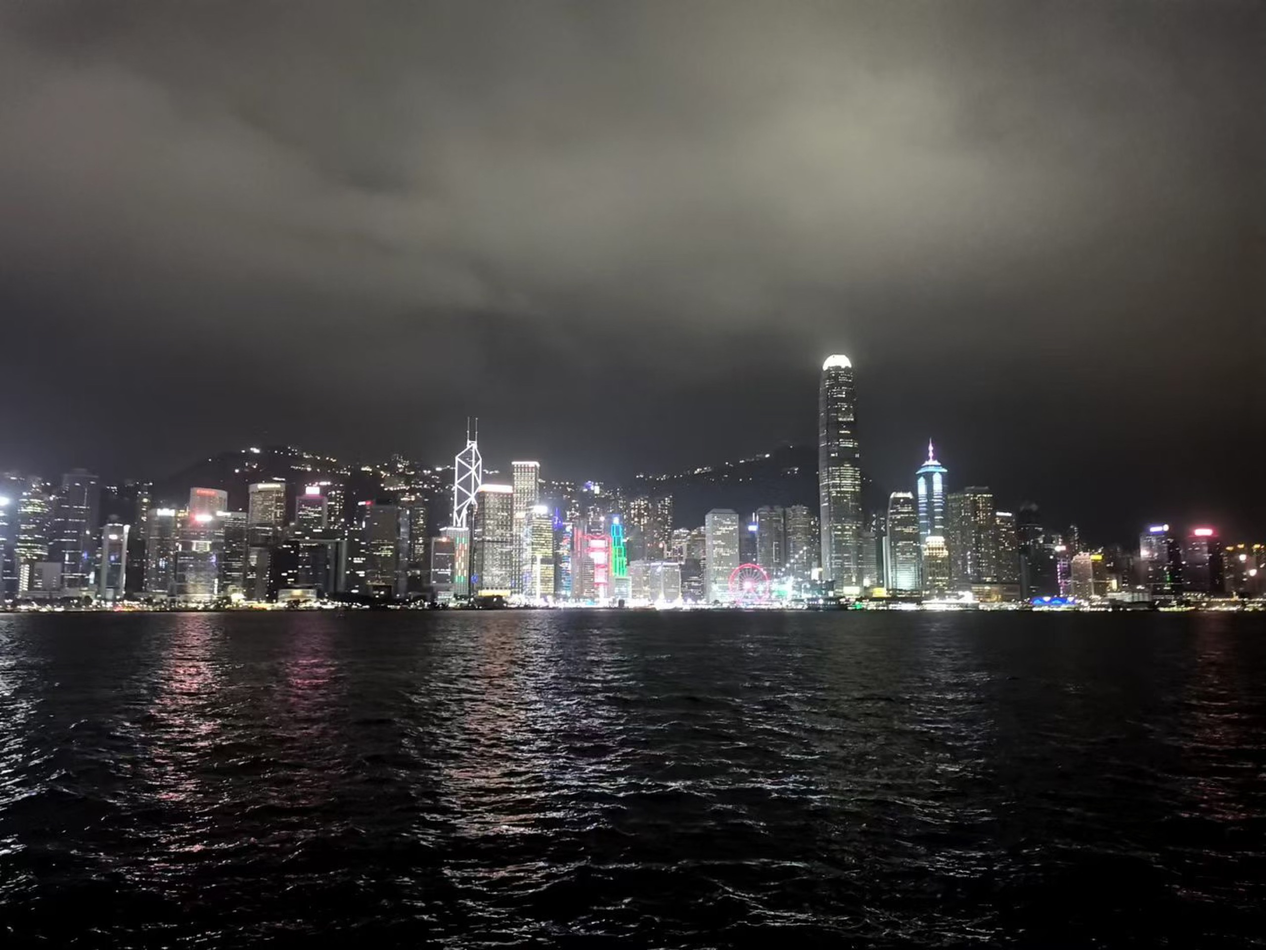
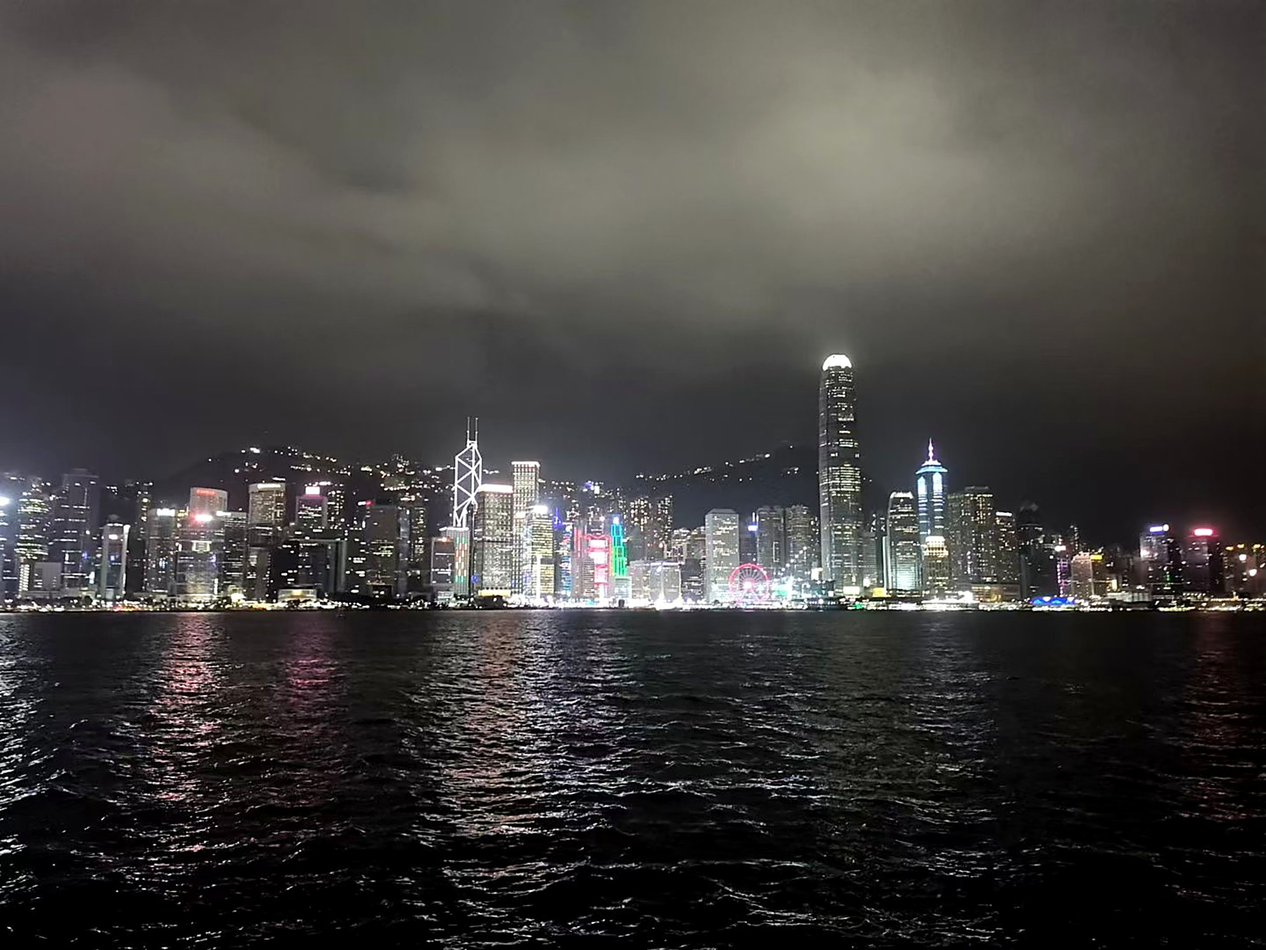
Use higher-res Harbour hero image
Replaced `harbour-night.jpg` with a higher-resolution version and updated the hero image dimensions from `1440x1080` to `2560x1920` in `website/views.mjs`. Regenerated localized homepage outputs in `material-demo/dist/site` so the rendered HTML matches the new asset metadata.

diff --git a/material-demo/dist/site/tw/index.html b/material-demo/dist/site/tw/index.html
@@ -1,3 +1,3 @@
-<!doctype html><html lang="zh-Hant"><head><meta charset="utf-8"><meta name="viewport" content="width=device-width,initial-scale=1"><meta name="description" content="Tin-Yeh Huang 的個人網站：學習、研究、工程實踐與公共服務。 "><meta name="theme-color" content="#f5f5f7"><title>Tin-Yeh Huang</title><link rel="stylesheet" href="../assets/leaflet/leaflet.css?v=f3ec4ee160"><link rel="preload" href="../assets/wenkai-essay.woff2" as="font" type="font/woff2" crossorigin><link rel="stylesheet" href="../site.css?v=f3ec4ee160"><script defer src="../assets/leaflet/leaflet.js"></script><script type="module" src="site.mjs?v=f3ec4ee160"></script></head><body data-page="home" data-lang="tw"><script>try{const theme=localStorage.getItem('tyh-theme')||(matchMedia('(prefers-color-scheme:dark)').matches?'dark':'light');document.body.dataset.theme=theme;document.body.dataset.largeText=localStorage.getItem('tyh-large-text')||'false';document.querySelector('meta[name="theme-color"]').content=theme==='dark'?'#10151c':'#f5f5f7'}catch{document.body.dataset.theme='light'}</script><a href="#main" class="skip-link">跳到內容</a><header class="site-header"><a href="index.html" class="brand">TYH<span>Tin-Yeh Huang</span></a><nav class="desktop-nav" aria-label="主導航"><a href="index.html" aria-current="page">首頁</a><a href="collection.html" >工作</a><a href="notes.html" >文字</a><a href="news.html" >動態</a><a href="about.html" >關於我</a><button class="contact-trigger" popovertarget="contact-panel">聯繫<span data-icon="plus" aria-hidden="true"></span></button></nav><div class="header-actions"><button data-text-size aria-label="調整文字大小" aria-pressed="false">Aa</button><button data-theme-toggle aria-label="切換明暗主題"><span data-icon="sun" aria-hidden="true"></span></button><a href="../index.html" class="language-link">簡</a><a href="../en/index.html" class="language-link">EN</a><button data-menu-toggle aria-expanded="false" aria-controls="site-menu" aria-label="打開目錄"><span data-icon="menu" aria-hidden="true"></span></button></div></header><dialog class="site-menu" id="site-menu"><header><span>Tin-Yeh Huang</span><button data-menu-close aria-label="關閉目錄"><span data-icon="x" aria-hidden="true"></span></button></header><nav><a href="index.html" class="active"><small>01</small>首頁<span data-icon="chevron-right" aria-hidden="true"></span></a><a href="collection.html" class=""><small>02</small>工作<span data-icon="chevron-right" aria-hidden="true"></span></a><a href="notes.html" class=""><small>03</small>文字<span data-icon="chevron-right" aria-hidden="true"></span></a><a href="news.html" class=""><small>04</small>動態<span data-icon="chevron-right" aria-hidden="true"></span></a><a href="about.html" class=""><small>05</small>關於我<span data-icon="chevron-right" aria-hidden="true"></span></a><button class="contact-trigger" popovertarget="contact-panel">聯繫<span data-icon="plus" aria-hidden="true"></span></button></nav></dialog><aside id="contact-panel" class="contact-panel" popover aria-label="聯繫名片"><div class="biz-card"><header class="biz-head"><div class="biz-id"><span class="biz-cn">黃天野</span><span class="biz-en">TIN-YEH “HEAVEN” HUANG</span></div><button class="biz-close" popovertarget="contact-panel" popovertargetaction="hide" aria-label="關閉"><span data-icon="x" aria-hidden="true"></span></button></header><p class="biz-role">產品工程在讀 · 香港理工大學</p><button class="biz-mail" data-copy-email aria-label="複製郵箱"><span class="contact-logo contact-logo-mail" aria-hidden="true"><svg viewBox="0 0 24 24" fill="none" stroke="currentColor" stroke-width="1.6"><rect x="3" y="5" width="18" height="14" rx="3"/><path d="m4 7 8 6 8-6"/></svg></span><span class="biz-mail-text"><small>點擊複製郵箱</small><strong>tin-yeh.huang@connect.polyu.hk</strong></span><span data-icon="copy" aria-hidden="true"></span></button></div><div class="biz-actions"><a class="biz-btn" href="mailto:tin-yeh.huang@connect.polyu.hk">寫郵件</a><a class="biz-btn" href="https://www.linkedin.com/in/tin-yeh-huang-59bba3289/" target="_blank" rel="noopener noreferrer">LinkedIn</a><a class="biz-btn" href="https://github.com/Huangty5121" target="_blank" rel="noopener noreferrer">GitHub</a><a class="biz-btn" href="https://scholar.google.com/citations?user=zrVCdOkAAAAJ&hl=en" target="_blank" rel="noopener noreferrer">Scholar</a></div><div class="biz-foot"><a href="../card.html">名片頁 · 鏈接可直接發給別人<span data-icon="arrow-up-right" aria-hidden="true"></span></a><span data-copy-status role="status"></span></div></aside><main id="main" tabindex="-1"><section class="landing"><figure class="hero-photo"><img src="../assets/harbour-night.jpg" width="1440" height="1080" alt="維多利亞港的夜景，香港島天際線在水面留下燈光倒影" fetchpriority="high"><figcaption>維多利亞港 · 我拍的</figcaption></figure><div class="wrap identity"><span class="edge-note" aria-hidden="true">個人網站 / 2026 — 維多利亞港</span><span class="eyebrow">香港 · 產品工程在讀</span><h1 class="hero-name">黃天野</h1><p class="hero-latin">TIN-YEH “HEAVEN” HUANG</p><p>這裏放一些我參與過的工作，<br>也留一點隨手寫的。</p><div class="home-paths"><a href="collection.html" class="text-link">工作成果<span data-icon="arrow-right" aria-hidden="true"></span></a><a href="notes.html" class="text-link">個人文字<span data-icon="arrow-right" aria-hidden="true"></span></a></div><div class="landing-index"><span class="home-time"><span class="home-time-label">香港時間</span><time data-local-time aria-label="香港當地時間">—</time><span class="home-time-zone">UTC+8</span></span></div></div></section>
+<!doctype html><html lang="zh-Hant"><head><meta charset="utf-8"><meta name="viewport" content="width=device-width,initial-scale=1"><meta name="description" content="Tin-Yeh Huang 的個人網站：學習、研究、工程實踐與公共服務。 "><meta name="theme-color" content="#f5f5f7"><title>Tin-Yeh Huang</title><link rel="stylesheet" href="../assets/leaflet/leaflet.css?v=f3ec4ee160"><link rel="preload" href="../assets/wenkai-essay.woff2" as="font" type="font/woff2" crossorigin><link rel="stylesheet" href="../site.css?v=f3ec4ee160"><script defer src="../assets/leaflet/leaflet.js"></script><script type="module" src="site.mjs?v=f3ec4ee160"></script></head><body data-page="home" data-lang="tw"><script>try{const theme=localStorage.getItem('tyh-theme')||(matchMedia('(prefers-color-scheme:dark)').matches?'dark':'light');document.body.dataset.theme=theme;document.body.dataset.largeText=localStorage.getItem('tyh-large-text')||'false';document.querySelector('meta[name="theme-color"]').content=theme==='dark'?'#10151c':'#f5f5f7'}catch{document.body.dataset.theme='light'}</script><a href="#main" class="skip-link">跳到內容</a><header class="site-header"><a href="index.html" class="brand">TYH<span>Tin-Yeh Huang</span></a><nav class="desktop-nav" aria-label="主導航"><a href="index.html" aria-current="page">首頁</a><a href="collection.html" >工作</a><a href="notes.html" >文字</a><a href="news.html" >動態</a><a href="about.html" >關於我</a><button class="contact-trigger" popovertarget="contact-panel">聯繫<span data-icon="plus" aria-hidden="true"></span></button></nav><div class="header-actions"><button data-text-size aria-label="調整文字大小" aria-pressed="false">Aa</button><button data-theme-toggle aria-label="切換明暗主題"><span data-icon="sun" aria-hidden="true"></span></button><a href="../index.html" class="language-link">簡</a><a href="../en/index.html" class="language-link">EN</a><button data-menu-toggle aria-expanded="false" aria-controls="site-menu" aria-label="打開目錄"><span data-icon="menu" aria-hidden="true"></span></button></div></header><dialog class="site-menu" id="site-menu"><header><span>Tin-Yeh Huang</span><button data-menu-close aria-label="關閉目錄"><span data-icon="x" aria-hidden="true"></span></button></header><nav><a href="index.html" class="active"><small>01</small>首頁<span data-icon="chevron-right" aria-hidden="true"></span></a><a href="collection.html" class=""><small>02</small>工作<span data-icon="chevron-right" aria-hidden="true"></span></a><a href="notes.html" class=""><small>03</small>文字<span data-icon="chevron-right" aria-hidden="true"></span></a><a href="news.html" class=""><small>04</small>動態<span data-icon="chevron-right" aria-hidden="true"></span></a><a href="about.html" class=""><small>05</small>關於我<span data-icon="chevron-right" aria-hidden="true"></span></a><button class="contact-trigger" popovertarget="contact-panel">聯繫<span data-icon="plus" aria-hidden="true"></span></button></nav></dialog><aside id="contact-panel" class="contact-panel" popover aria-label="聯繫名片"><div class="biz-card"><header class="biz-head"><div class="biz-id"><span class="biz-cn">黃天野</span><span class="biz-en">TIN-YEH “HEAVEN” HUANG</span></div><button class="biz-close" popovertarget="contact-panel" popovertargetaction="hide" aria-label="關閉"><span data-icon="x" aria-hidden="true"></span></button></header><p class="biz-role">產品工程在讀 · 香港理工大學</p><button class="biz-mail" data-copy-email aria-label="複製郵箱"><span class="contact-logo contact-logo-mail" aria-hidden="true"><svg viewBox="0 0 24 24" fill="none" stroke="currentColor" stroke-width="1.6"><rect x="3" y="5" width="18" height="14" rx="3"/><path d="m4 7 8 6 8-6"/></svg></span><span class="biz-mail-text"><small>點擊複製郵箱</small><strong>tin-yeh.huang@connect.polyu.hk</strong></span><span data-icon="copy" aria-hidden="true"></span></button></div><div class="biz-actions"><a class="biz-btn" href="mailto:tin-yeh.huang@connect.polyu.hk">寫郵件</a><a class="biz-btn" href="https://www.linkedin.com/in/tin-yeh-huang-59bba3289/" target="_blank" rel="noopener noreferrer">LinkedIn</a><a class="biz-btn" href="https://github.com/Huangty5121" target="_blank" rel="noopener noreferrer">GitHub</a><a class="biz-btn" href="https://scholar.google.com/citations?user=zrVCdOkAAAAJ&hl=en" target="_blank" rel="noopener noreferrer">Scholar</a></div><div class="biz-foot"><a href="../card.html">名片頁 · 鏈接可直接發給別人<span data-icon="arrow-up-right" aria-hidden="true"></span></a><span data-copy-status role="status"></span></div></aside><main id="main" tabindex="-1"><section class="landing"><figure class="hero-photo"><img src="../assets/harbour-night.jpg" width="2560" height="1920" alt="維多利亞港的夜景，香港島天際線在水面留下燈光倒影" fetchpriority="high"><figcaption>維多利亞港 · 我拍的</figcaption></figure><div class="wrap identity"><span class="edge-note" aria-hidden="true">個人網站 / 2026 — 維多利亞港</span><span class="eyebrow">香港 · 產品工程在讀</span><h1 class="hero-name">黃天野</h1><p class="hero-latin">TIN-YEH “HEAVEN” HUANG</p><p>這裏放一些我參與過的工作，<br>也留一點隨手寫的。</p><div class="home-paths"><a href="collection.html" class="text-link">工作成果<span data-icon="arrow-right" aria-hidden="true"></span></a><a href="notes.html" class="text-link">個人文字<span data-icon="arrow-right" aria-hidden="true"></span></a></div><div class="landing-index"><span class="home-time"><span class="home-time-label">香港時間</span><time data-local-time aria-label="香港當地時間">—</time><span class="home-time-zone">UTC+8</span></span></div></div></section>
  <section id="selected" class="home-selection wrap"><header><h2 class="eyebrow">01 · 最近的工作</h2><a href="collection.html" class="text-link">查看全部工作<span data-icon="arrow-right" aria-hidden="true"></span></a></header><div class="home-work-list"><a class="home-work-link" href="project-ninetoothed.html"><figure><img src="../assets/covers/ninetoothed.svg?v=transparent2" width="720" height="450" alt="" loading="lazy"></figure><div><span class="eyebrow">實踐 · 2026</span><h3>NineToothed</h3><p>工具移植、教學材料和演示。</p></div><span data-icon="arrow-right" aria-hidden="true"></span></a><a class="home-work-link" href="read-heatwave.html"><figure><img src="../assets/covers/heatwave.svg?v=transparent2" width="720" height="450" alt="" loading="lazy"></figure><div><span class="eyebrow">論文 · 2026</span><h3>熱浪風險研究</h3><p>參與研究設計、分析、數據整理、圖稿和論文寫作。</p></div><span data-icon="arrow-right" aria-hidden="true"></span></a></div></section>
  <section class="home-notes wrap"><div><span class="eyebrow">02 · 工作之外</span><h2>一些個人文字</h2></div><p>關於形式、功能，以及設計為什麼值得。</p><a href="notes.html" class="text-link">進入文字<span data-icon="arrow-right" aria-hidden="true"></span></a><figure class="notes-material" aria-hidden="true"><img src="../assets/folio-scene-cutout.webp" alt="" width="1536" height="1024" loading="lazy"></figure></section></main><footer class="site-footer"><div><span>© 2026 Tin-Yeh Huang</span><button class="contact-trigger" popovertarget="contact-panel">聯繫<span data-icon="plus" aria-hidden="true"></span></button><a class="footer-email" href="mailto:tin-yeh.huang@connect.polyu.hk">郵箱<span data-icon="arrow-up-right" aria-hidden="true"></span></a></div></footer><aside class="music-dock" aria-label="音樂播放器"><button class="music-launcher" popovertarget="music-panel" aria-label="打開音樂播放器"><span class="music-bars" aria-hidden="true"><i></i><i></i><i></i><i></i></span><span data-music-label>聽點音樂</span><span data-icon="plus" aria-hidden="true"></span></button><section id="music-panel" class="music-panel" popover aria-labelledby="music-title"><header><span class="eyebrow">音樂角落</span><button popovertarget="music-panel" popovertargetaction="hide" aria-label="收起播放器"><span data-icon="minus" aria-hidden="true"></span></button></header><div class="music-track"><span class="record-disc" aria-hidden="true"></span><div><h2 id="music-title">塵大師</h2><p>陳奕迅</p><a href="https://music.apple.com/hk/album/塵大師/1675204502?i=1675204703" target="_blank" rel="noopener noreferrer">Apple Music<span data-icon="arrow-up-right" aria-hidden="true"></span></a></div></div><div class="music-transport"><button data-music-toggle aria-pressed="false" aria-label="播放音樂試聽"><span data-icon="play" aria-hidden="true"></span></button><div class="music-timeline"><input type="range" data-music-seek min="0" max="30" value="0" step="0.1" disabled aria-label="播放進度"><div><time data-music-elapsed>0:00</time><span>官方試聽 · <time data-music-duration>0:30</time></span></div></div></div><label class="music-volume"><span>音量</span><input type="range" data-music-volume min="0" max="1" step="0.05" value="0.55" aria-label="音量"></label><p data-audio-status role="status"></p></section></aside><audio id="music" preload="none" src="https://audio-ssl.itunes.apple.com/itunes-assets/AudioPreview126/v4/cf/66/67/cf666757-8fc8-e1c9-ed65-aa087e854952/mzaf_18188607515704561791.plus.aac.p.m4a"></audio></body></html>

diff --git a/material-demo/dist/site/en/index.html b/material-demo/dist/site/en/index.html
@@ -1,3 +1,3 @@
-<!doctype html><html lang="en"><head><meta charset="utf-8"><meta name="viewport" content="width=device-width,initial-scale=1"><meta name="description" content="Tin-Yeh Huang: studies, research, engineering, and public service. "><meta name="theme-color" content="#f5f5f7"><title>Tin-Yeh Huang</title><link rel="stylesheet" href="../assets/leaflet/leaflet.css?v=f3ec4ee160"><link rel="preload" href="../assets/wenkai-essay.woff2" as="font" type="font/woff2" crossorigin><link rel="stylesheet" href="../site.css?v=f3ec4ee160"><script defer src="../assets/leaflet/leaflet.js"></script><script type="module" src="../site.mjs?v=f3ec4ee160"></script></head><body data-page="home" data-lang="en"><script>try{const theme=localStorage.getItem('tyh-theme')||(matchMedia('(prefers-color-scheme:dark)').matches?'dark':'light');document.body.dataset.theme=theme;document.body.dataset.largeText=localStorage.getItem('tyh-large-text')||'false';document.querySelector('meta[name="theme-color"]').content=theme==='dark'?'#10151c':'#f5f5f7'}catch{document.body.dataset.theme='light'}</script><a href="#main" class="skip-link">Skip to content</a><header class="site-header"><a href="index.html" class="brand">TYH<span>Tin-Yeh Huang</span></a><nav class="desktop-nav" aria-label="Main navigation"><a href="index.html" aria-current="page">Home</a><a href="collection.html" >Work</a><a href="notes.html" >Notes</a><a href="news.html" >News</a><a href="about.html" >About</a><button class="contact-trigger" popovertarget="contact-panel">Contact<span data-icon="plus" aria-hidden="true"></span></button></nav><div class="header-actions"><button data-text-size aria-label="Adjust text size" aria-pressed="false">Aa</button><button data-theme-toggle aria-label="Toggle light and dark theme"><span data-icon="sun" aria-hidden="true"></span></button><a href="../index.html" class="language-link">中</a><a href="../tw/index.html" class="language-link">繁</a><button data-menu-toggle aria-expanded="false" aria-controls="site-menu" aria-label="Open menu"><span data-icon="menu" aria-hidden="true"></span></button></div></header><dialog class="site-menu" id="site-menu"><header><span>Tin-Yeh Huang</span><button data-menu-close aria-label="Close menu"><span data-icon="x" aria-hidden="true"></span></button></header><nav><a href="index.html" class="active"><small>01</small>Home<span data-icon="chevron-right" aria-hidden="true"></span></a><a href="collection.html" class=""><small>02</small>Work<span data-icon="chevron-right" aria-hidden="true"></span></a><a href="notes.html" class=""><small>03</small>Notes<span data-icon="chevron-right" aria-hidden="true"></span></a><a href="news.html" class=""><small>04</small>News<span data-icon="chevron-right" aria-hidden="true"></span></a><a href="about.html" class=""><small>05</small>About<span data-icon="chevron-right" aria-hidden="true"></span></a><button class="contact-trigger" popovertarget="contact-panel">Contact<span data-icon="plus" aria-hidden="true"></span></button></nav></dialog><aside id="contact-panel" class="contact-panel" popover aria-label="Contact card"><div class="biz-card"><header class="biz-head"><div class="biz-id"><span class="biz-cn">黄天野</span><span class="biz-en">TIN-YEH “HEAVEN” HUANG</span></div><button class="biz-close" popovertarget="contact-panel" popovertargetaction="hide" aria-label="Close"><span data-icon="x" aria-hidden="true"></span></button></header><p class="biz-role">Product Engineering · The Hong Kong Polytechnic University</p><button class="biz-mail" data-copy-email aria-label="Copy email"><span class="contact-logo contact-logo-mail" aria-hidden="true"><svg viewBox="0 0 24 24" fill="none" stroke="currentColor" stroke-width="1.6"><rect x="3" y="5" width="18" height="14" rx="3"/><path d="m4 7 8 6 8-6"/></svg></span><span class="biz-mail-text"><small>Tap to copy email</small><strong>tin-yeh.huang@connect.polyu.hk</strong></span><span data-icon="copy" aria-hidden="true"></span></button></div><div class="biz-actions"><a class="biz-btn" href="mailto:tin-yeh.huang@connect.polyu.hk">Email</a><a class="biz-btn" href="https://www.linkedin.com/in/tin-yeh-huang-59bba3289/" target="_blank" rel="noopener noreferrer">LinkedIn</a><a class="biz-btn" href="https://github.com/Huangty5121" target="_blank" rel="noopener noreferrer">GitHub</a><a class="biz-btn" href="https://scholar.google.com/citations?user=zrVCdOkAAAAJ&hl=en" target="_blank" rel="noopener noreferrer">Scholar</a></div><div class="biz-foot"><a href="../card.html">Card page · share this link<span data-icon="arrow-up-right" aria-hidden="true"></span></a><span data-copy-status role="status"></span></div></aside><main id="main" tabindex="-1"><section class="landing"><figure class="hero-photo"><img src="../assets/harbour-night.jpg" width="1440" height="1080" alt="Victoria Harbour at night, the Hong Kong Island skyline reflected in the water" fetchpriority="high"><figcaption>Victoria Harbour · my own photo</figcaption></figure><div class="wrap identity"><span class="edge-note" aria-hidden="true">個人網站 / 2026 — Victoria Harbour</span><span class="eyebrow">Hong Kong · Product Engineering student</span><h1 class="hero-name">Tin-Yeh Huang</h1><p class="hero-latin">黄天野 · “HEAVEN”</p><p>Some things I have worked on,<br>and a few notes along the way.</p><div class="home-paths"><a href="collection.html" class="text-link">Work<span data-icon="arrow-right" aria-hidden="true"></span></a><a href="notes.html" class="text-link">Notes<span data-icon="arrow-right" aria-hidden="true"></span></a></div><div class="landing-index"><span class="home-time"><span class="home-time-label">Hong Kong time</span><time data-local-time aria-label="Local time in Hong Kong">—</time><span class="home-time-zone">UTC+8</span></span></div></div></section>
+<!doctype html><html lang="en"><head><meta charset="utf-8"><meta name="viewport" content="width=device-width,initial-scale=1"><meta name="description" content="Tin-Yeh Huang: studies, research, engineering, and public service. "><meta name="theme-color" content="#f5f5f7"><title>Tin-Yeh Huang</title><link rel="stylesheet" href="../assets/leaflet/leaflet.css?v=f3ec4ee160"><link rel="preload" href="../assets/wenkai-essay.woff2" as="font" type="font/woff2" crossorigin><link rel="stylesheet" href="../site.css?v=f3ec4ee160"><script defer src="../assets/leaflet/leaflet.js"></script><script type="module" src="../site.mjs?v=f3ec4ee160"></script></head><body data-page="home" data-lang="en"><script>try{const theme=localStorage.getItem('tyh-theme')||(matchMedia('(prefers-color-scheme:dark)').matches?'dark':'light');document.body.dataset.theme=theme;document.body.dataset.largeText=localStorage.getItem('tyh-large-text')||'false';document.querySelector('meta[name="theme-color"]').content=theme==='dark'?'#10151c':'#f5f5f7'}catch{document.body.dataset.theme='light'}</script><a href="#main" class="skip-link">Skip to content</a><header class="site-header"><a href="index.html" class="brand">TYH<span>Tin-Yeh Huang</span></a><nav class="desktop-nav" aria-label="Main navigation"><a href="index.html" aria-current="page">Home</a><a href="collection.html" >Work</a><a href="notes.html" >Notes</a><a href="news.html" >News</a><a href="about.html" >About</a><button class="contact-trigger" popovertarget="contact-panel">Contact<span data-icon="plus" aria-hidden="true"></span></button></nav><div class="header-actions"><button data-text-size aria-label="Adjust text size" aria-pressed="false">Aa</button><button data-theme-toggle aria-label="Toggle light and dark theme"><span data-icon="sun" aria-hidden="true"></span></button><a href="../index.html" class="language-link">中</a><a href="../tw/index.html" class="language-link">繁</a><button data-menu-toggle aria-expanded="false" aria-controls="site-menu" aria-label="Open menu"><span data-icon="menu" aria-hidden="true"></span></button></div></header><dialog class="site-menu" id="site-menu"><header><span>Tin-Yeh Huang</span><button data-menu-close aria-label="Close menu"><span data-icon="x" aria-hidden="true"></span></button></header><nav><a href="index.html" class="active"><small>01</small>Home<span data-icon="chevron-right" aria-hidden="true"></span></a><a href="collection.html" class=""><small>02</small>Work<span data-icon="chevron-right" aria-hidden="true"></span></a><a href="notes.html" class=""><small>03</small>Notes<span data-icon="chevron-right" aria-hidden="true"></span></a><a href="news.html" class=""><small>04</small>News<span data-icon="chevron-right" aria-hidden="true"></span></a><a href="about.html" class=""><small>05</small>About<span data-icon="chevron-right" aria-hidden="true"></span></a><button class="contact-trigger" popovertarget="contact-panel">Contact<span data-icon="plus" aria-hidden="true"></span></button></nav></dialog><aside id="contact-panel" class="contact-panel" popover aria-label="Contact card"><div class="biz-card"><header class="biz-head"><div class="biz-id"><span class="biz-cn">黄天野</span><span class="biz-en">TIN-YEH “HEAVEN” HUANG</span></div><button class="biz-close" popovertarget="contact-panel" popovertargetaction="hide" aria-label="Close"><span data-icon="x" aria-hidden="true"></span></button></header><p class="biz-role">Product Engineering · The Hong Kong Polytechnic University</p><button class="biz-mail" data-copy-email aria-label="Copy email"><span class="contact-logo contact-logo-mail" aria-hidden="true"><svg viewBox="0 0 24 24" fill="none" stroke="currentColor" stroke-width="1.6"><rect x="3" y="5" width="18" height="14" rx="3"/><path d="m4 7 8 6 8-6"/></svg></span><span class="biz-mail-text"><small>Tap to copy email</small><strong>tin-yeh.huang@connect.polyu.hk</strong></span><span data-icon="copy" aria-hidden="true"></span></button></div><div class="biz-actions"><a class="biz-btn" href="mailto:tin-yeh.huang@connect.polyu.hk">Email</a><a class="biz-btn" href="https://www.linkedin.com/in/tin-yeh-huang-59bba3289/" target="_blank" rel="noopener noreferrer">LinkedIn</a><a class="biz-btn" href="https://github.com/Huangty5121" target="_blank" rel="noopener noreferrer">GitHub</a><a class="biz-btn" href="https://scholar.google.com/citations?user=zrVCdOkAAAAJ&hl=en" target="_blank" rel="noopener noreferrer">Scholar</a></div><div class="biz-foot"><a href="../card.html">Card page · share this link<span data-icon="arrow-up-right" aria-hidden="true"></span></a><span data-copy-status role="status"></span></div></aside><main id="main" tabindex="-1"><section class="landing"><figure class="hero-photo"><img src="../assets/harbour-night.jpg" width="2560" height="1920" alt="Victoria Harbour at night, the Hong Kong Island skyline reflected in the water" fetchpriority="high"><figcaption>Victoria Harbour · my own photo</figcaption></figure><div class="wrap identity"><span class="edge-note" aria-hidden="true">個人網站 / 2026 — Victoria Harbour</span><span class="eyebrow">Hong Kong · Product Engineering student</span><h1 class="hero-name">Tin-Yeh Huang</h1><p class="hero-latin">黄天野 · “HEAVEN”</p><p>Some things I have worked on,<br>and a few notes along the way.</p><div class="home-paths"><a href="collection.html" class="text-link">Work<span data-icon="arrow-right" aria-hidden="true"></span></a><a href="notes.html" class="text-link">Notes<span data-icon="arrow-right" aria-hidden="true"></span></a></div><div class="landing-index"><span class="home-time"><span class="home-time-label">Hong Kong time</span><time data-local-time aria-label="Local time in Hong Kong">—</time><span class="home-time-zone">UTC+8</span></span></div></div></section>
  <section id="selected" class="home-selection wrap"><header><h2 class="eyebrow">01 · Selected work</h2><a href="collection.html" class="text-link">All work<span data-icon="arrow-right" aria-hidden="true"></span></a></header><div class="home-work-list"><a class="home-work-link" href="project-ninetoothed.html"><figure><img src="../assets/covers/ninetoothed.svg?v=transparent2" width="720" height="450" alt="" loading="lazy"></figure><div><span class="eyebrow">Practice · 2026</span><h3>NineToothed</h3><p>Tooling, teaching materials, and demonstrations.</p></div><span data-icon="arrow-right" aria-hidden="true"></span></a><a class="home-work-link" href="read-heatwave.html"><figure><img src="../assets/covers/heatwave.svg?v=transparent2" width="720" height="450" alt="" loading="lazy"></figure><div><span class="eyebrow">Paper · 2026</span><h3>Cascading heatwave risks</h3><p>Contributed to study design, analysis, data, figures, and writing.</p></div><span data-icon="arrow-right" aria-hidden="true"></span></a></div></section>
  <section class="home-notes wrap"><div><span class="eyebrow">02 · Along the way</span><h2>A few personal notes</h2></div><p>On form, function, and what makes a design worthwhile.</p><a href="notes.html" class="text-link">Read the notes<span data-icon="arrow-right" aria-hidden="true"></span></a><figure class="notes-material" aria-hidden="true"><img src="../assets/folio-scene-cutout.webp" alt="" width="1536" height="1024" loading="lazy"></figure></section></main><footer class="site-footer"><div><span>© 2026 Tin-Yeh Huang</span><button class="contact-trigger" popovertarget="contact-panel">Contact<span data-icon="plus" aria-hidden="true"></span></button><a class="footer-email" href="mailto:tin-yeh.huang@connect.polyu.hk">Email<span data-icon="arrow-up-right" aria-hidden="true"></span></a></div></footer><aside class="music-dock" aria-label="Music player"><button class="music-launcher" popovertarget="music-panel" aria-label="Open music player"><span class="music-bars" aria-hidden="true"><i></i><i></i><i></i><i></i></span><span data-music-label>A little music</span><span data-icon="plus" aria-hidden="true"></span></button><section id="music-panel" class="music-panel" popover aria-labelledby="music-title"><header><span class="eyebrow">A little music</span><button popovertarget="music-panel" popovertargetaction="hide" aria-label="Close music player"><span data-icon="minus" aria-hidden="true"></span></button></header><div class="music-track"><span class="record-disc" aria-hidden="true"></span><div><h2 id="music-title">尘大师</h2><p>陈奕迅</p><a href="https://music.apple.com/hk/album/塵大師/1675204502?i=1675204703" target="_blank" rel="noopener noreferrer">Apple Music<span data-icon="arrow-up-right" aria-hidden="true"></span></a></div></div><div class="music-transport"><button data-music-toggle aria-pressed="false" aria-label="Play music preview"><span data-icon="play" aria-hidden="true"></span></button><div class="music-timeline"><input type="range" data-music-seek min="0" max="30" value="0" step="0.1" disabled aria-label="Playback position"><div><time data-music-elapsed>0:00</time><span>Official preview · <time data-music-duration>0:30</time></span></div></div></div><label class="music-volume"><span>Volume</span><input type="range" data-music-volume min="0" max="1" step="0.05" value="0.55" aria-label="Volume"></label><p data-audio-status role="status"></p></section></aside><audio id="music" preload="none" src="https://audio-ssl.itunes.apple.com/itunes-assets/AudioPreview126/v4/cf/66/67/cf666757-8fc8-e1c9-ed65-aa087e854952/mzaf_18188607515704561791.plus.aac.p.m4a"></audio></body></html>

diff --git a/material-demo/dist/site/index.html b/material-demo/dist/site/index.html
@@ -1,3 +1,3 @@
-<!doctype html><html lang="zh-Hans"><head><meta charset="utf-8"><meta name="viewport" content="width=device-width,initial-scale=1"><meta name="description" content="Tin-Yeh Huang 的个人网站：学习、研究、工程实践与公共服务。 "><meta name="theme-color" content="#f5f5f7"><title>Tin-Yeh Huang</title><link rel="stylesheet" href="assets/leaflet/leaflet.css?v=f3ec4ee160"><link rel="preload" href="assets/wenkai-essay.woff2" as="font" type="font/woff2" crossorigin><link rel="stylesheet" href="site.css?v=f3ec4ee160"><script defer src="assets/leaflet/leaflet.js"></script><script type="module" src="site.mjs?v=f3ec4ee160"></script></head><body data-page="home" data-lang="zh"><script>try{const theme=localStorage.getItem('tyh-theme')||(matchMedia('(prefers-color-scheme:dark)').matches?'dark':'light');document.body.dataset.theme=theme;document.body.dataset.largeText=localStorage.getItem('tyh-large-text')||'false';document.querySelector('meta[name="theme-color"]').content=theme==='dark'?'#10151c':'#f5f5f7'}catch{document.body.dataset.theme='light'}</script><a href="#main" class="skip-link">跳到内容</a><header class="site-header"><a href="index.html" class="brand">TYH<span>Tin-Yeh Huang</span></a><nav class="desktop-nav" aria-label="主导航"><a href="index.html" aria-current="page">首页</a><a href="collection.html" >工作</a><a href="notes.html" >文字</a><a href="news.html" >动态</a><a href="about.html" >关于我</a><button class="contact-trigger" popovertarget="contact-panel">联系<span data-icon="plus" aria-hidden="true"></span></button></nav><div class="header-actions"><button data-text-size aria-label="调整文字大小" aria-pressed="false">Aa</button><button data-theme-toggle aria-label="切换明暗主题"><span data-icon="sun" aria-hidden="true"></span></button><a href="tw/index.html" class="language-link">繁</a><a href="en/index.html" class="language-link">EN</a><button data-menu-toggle aria-expanded="false" aria-controls="site-menu" aria-label="打开目录"><span data-icon="menu" aria-hidden="true"></span></button></div></header><dialog class="site-menu" id="site-menu"><header><span>Tin-Yeh Huang</span><button data-menu-close aria-label="关闭目录"><span data-icon="x" aria-hidden="true"></span></button></header><nav><a href="index.html" class="active"><small>01</small>首页<span data-icon="chevron-right" aria-hidden="true"></span></a><a href="collection.html" class=""><small>02</small>工作<span data-icon="chevron-right" aria-hidden="true"></span></a><a href="notes.html" class=""><small>03</small>文字<span data-icon="chevron-right" aria-hidden="true"></span></a><a href="news.html" class=""><small>04</small>动态<span data-icon="chevron-right" aria-hidden="true"></span></a><a href="about.html" class=""><small>05</small>关于我<span data-icon="chevron-right" aria-hidden="true"></span></a><button class="contact-trigger" popovertarget="contact-panel">联系<span data-icon="plus" aria-hidden="true"></span></button></nav></dialog><aside id="contact-panel" class="contact-panel" popover aria-label="联系名片"><div class="biz-card"><header class="biz-head"><div class="biz-id"><span class="biz-cn">黄天野</span><span class="biz-en">TIN-YEH “HEAVEN” HUANG</span></div><button class="biz-close" popovertarget="contact-panel" popovertargetaction="hide" aria-label="关闭"><span data-icon="x" aria-hidden="true"></span></button></header><p class="biz-role">产品工程在读 · 香港理工大学</p><button class="biz-mail" data-copy-email aria-label="复制邮箱"><span class="contact-logo contact-logo-mail" aria-hidden="true"><svg viewBox="0 0 24 24" fill="none" stroke="currentColor" stroke-width="1.6"><rect x="3" y="5" width="18" height="14" rx="3"/><path d="m4 7 8 6 8-6"/></svg></span><span class="biz-mail-text"><small>点击复制邮箱</small><strong>tin-yeh.huang@connect.polyu.hk</strong></span><span data-icon="copy" aria-hidden="true"></span></button></div><div class="biz-actions"><a class="biz-btn" href="mailto:tin-yeh.huang@connect.polyu.hk">写邮件</a><a class="biz-btn" href="https://www.linkedin.com/in/tin-yeh-huang-59bba3289/" target="_blank" rel="noopener noreferrer">LinkedIn</a><a class="biz-btn" href="https://github.com/Huangty5121" target="_blank" rel="noopener noreferrer">GitHub</a><a class="biz-btn" href="https://scholar.google.com/citations?user=zrVCdOkAAAAJ&hl=en" target="_blank" rel="noopener noreferrer">Scholar</a></div><div class="biz-foot"><a href="card.html">名片页 · 链接可直接发给别人<span data-icon="arrow-up-right" aria-hidden="true"></span></a><span data-copy-status role="status"></span></div></aside><main id="main" tabindex="-1"><section class="landing"><figure class="hero-photo"><img src="assets/harbour-night.jpg" width="1440" height="1080" alt="维多利亚港的夜景，香港岛天际线在水面留下灯光倒影" fetchpriority="high"><figcaption>维多利亚港 · 我拍的</figcaption></figure><div class="wrap identity"><span class="edge-note" aria-hidden="true">個人網站 / 2026 — 維多利亞港</span><span class="eyebrow">香港 · 产品工程在读</span><h1 class="hero-name">黄天野</h1><p class="hero-latin">TIN-YEH “HEAVEN” HUANG</p><p>这里放一些我参与过的工作，<br>也留一点随手写的。</p><div class="home-paths"><a href="collection.html" class="text-link">工作成果<span data-icon="arrow-right" aria-hidden="true"></span></a><a href="notes.html" class="text-link">个人文字<span data-icon="arrow-right" aria-hidden="true"></span></a></div><div class="landing-index"><span class="home-time"><span class="home-time-label">香港时间</span><time data-local-time aria-label="香港当地时间">—</time><span class="home-time-zone">UTC+8</span></span></div></div></section>
+<!doctype html><html lang="zh-Hans"><head><meta charset="utf-8"><meta name="viewport" content="width=device-width,initial-scale=1"><meta name="description" content="Tin-Yeh Huang 的个人网站：学习、研究、工程实践与公共服务。 "><meta name="theme-color" content="#f5f5f7"><title>Tin-Yeh Huang</title><link rel="stylesheet" href="assets/leaflet/leaflet.css?v=f3ec4ee160"><link rel="preload" href="assets/wenkai-essay.woff2" as="font" type="font/woff2" crossorigin><link rel="stylesheet" href="site.css?v=f3ec4ee160"><script defer src="assets/leaflet/leaflet.js"></script><script type="module" src="site.mjs?v=f3ec4ee160"></script></head><body data-page="home" data-lang="zh"><script>try{const theme=localStorage.getItem('tyh-theme')||(matchMedia('(prefers-color-scheme:dark)').matches?'dark':'light');document.body.dataset.theme=theme;document.body.dataset.largeText=localStorage.getItem('tyh-large-text')||'false';document.querySelector('meta[name="theme-color"]').content=theme==='dark'?'#10151c':'#f5f5f7'}catch{document.body.dataset.theme='light'}</script><a href="#main" class="skip-link">跳到内容</a><header class="site-header"><a href="index.html" class="brand">TYH<span>Tin-Yeh Huang</span></a><nav class="desktop-nav" aria-label="主导航"><a href="index.html" aria-current="page">首页</a><a href="collection.html" >工作</a><a href="notes.html" >文字</a><a href="news.html" >动态</a><a href="about.html" >关于我</a><button class="contact-trigger" popovertarget="contact-panel">联系<span data-icon="plus" aria-hidden="true"></span></button></nav><div class="header-actions"><button data-text-size aria-label="调整文字大小" aria-pressed="false">Aa</button><button data-theme-toggle aria-label="切换明暗主题"><span data-icon="sun" aria-hidden="true"></span></button><a href="tw/index.html" class="language-link">繁</a><a href="en/index.html" class="language-link">EN</a><button data-menu-toggle aria-expanded="false" aria-controls="site-menu" aria-label="打开目录"><span data-icon="menu" aria-hidden="true"></span></button></div></header><dialog class="site-menu" id="site-menu"><header><span>Tin-Yeh Huang</span><button data-menu-close aria-label="关闭目录"><span data-icon="x" aria-hidden="true"></span></button></header><nav><a href="index.html" class="active"><small>01</small>首页<span data-icon="chevron-right" aria-hidden="true"></span></a><a href="collection.html" class=""><small>02</small>工作<span data-icon="chevron-right" aria-hidden="true"></span></a><a href="notes.html" class=""><small>03</small>文字<span data-icon="chevron-right" aria-hidden="true"></span></a><a href="news.html" class=""><small>04</small>动态<span data-icon="chevron-right" aria-hidden="true"></span></a><a href="about.html" class=""><small>05</small>关于我<span data-icon="chevron-right" aria-hidden="true"></span></a><button class="contact-trigger" popovertarget="contact-panel">联系<span data-icon="plus" aria-hidden="true"></span></button></nav></dialog><aside id="contact-panel" class="contact-panel" popover aria-label="联系名片"><div class="biz-card"><header class="biz-head"><div class="biz-id"><span class="biz-cn">黄天野</span><span class="biz-en">TIN-YEH “HEAVEN” HUANG</span></div><button class="biz-close" popovertarget="contact-panel" popovertargetaction="hide" aria-label="关闭"><span data-icon="x" aria-hidden="true"></span></button></header><p class="biz-role">产品工程在读 · 香港理工大学</p><button class="biz-mail" data-copy-email aria-label="复制邮箱"><span class="contact-logo contact-logo-mail" aria-hidden="true"><svg viewBox="0 0 24 24" fill="none" stroke="currentColor" stroke-width="1.6"><rect x="3" y="5" width="18" height="14" rx="3"/><path d="m4 7 8 6 8-6"/></svg></span><span class="biz-mail-text"><small>点击复制邮箱</small><strong>tin-yeh.huang@connect.polyu.hk</strong></span><span data-icon="copy" aria-hidden="true"></span></button></div><div class="biz-actions"><a class="biz-btn" href="mailto:tin-yeh.huang@connect.polyu.hk">写邮件</a><a class="biz-btn" href="https://www.linkedin.com/in/tin-yeh-huang-59bba3289/" target="_blank" rel="noopener noreferrer">LinkedIn</a><a class="biz-btn" href="https://github.com/Huangty5121" target="_blank" rel="noopener noreferrer">GitHub</a><a class="biz-btn" href="https://scholar.google.com/citations?user=zrVCdOkAAAAJ&hl=en" target="_blank" rel="noopener noreferrer">Scholar</a></div><div class="biz-foot"><a href="card.html">名片页 · 链接可直接发给别人<span data-icon="arrow-up-right" aria-hidden="true"></span></a><span data-copy-status role="status"></span></div></aside><main id="main" tabindex="-1"><section class="landing"><figure class="hero-photo"><img src="assets/harbour-night.jpg" width="2560" height="1920" alt="维多利亚港的夜景，香港岛天际线在水面留下灯光倒影" fetchpriority="high"><figcaption>维多利亚港 · 我拍的</figcaption></figure><div class="wrap identity"><span class="edge-note" aria-hidden="true">個人網站 / 2026 — 維多利亞港</span><span class="eyebrow">香港 · 产品工程在读</span><h1 class="hero-name">黄天野</h1><p class="hero-latin">TIN-YEH “HEAVEN” HUANG</p><p>这里放一些我参与过的工作，<br>也留一点随手写的。</p><div class="home-paths"><a href="collection.html" class="text-link">工作成果<span data-icon="arrow-right" aria-hidden="true"></span></a><a href="notes.html" class="text-link">个人文字<span data-icon="arrow-right" aria-hidden="true"></span></a></div><div class="landing-index"><span class="home-time"><span class="home-time-label">香港时间</span><time data-local-time aria-label="香港当地时间">—</time><span class="home-time-zone">UTC+8</span></span></div></div></section>
  <section id="selected" class="home-selection wrap"><header><h2 class="eyebrow">01 · 最近的工作</h2><a href="collection.html" class="text-link">查看全部工作<span data-icon="arrow-right" aria-hidden="true"></span></a></header><div class="home-work-list"><a class="home-work-link" href="project-ninetoothed.html"><figure><img src="assets/covers/ninetoothed.svg?v=transparent2" width="720" height="450" alt="" loading="lazy"></figure><div><span class="eyebrow">实践 · 2026</span><h3>NineToothed</h3><p>工具移植、教学材料和演示。</p></div><span data-icon="arrow-right" aria-hidden="true"></span></a><a class="home-work-link" href="read-heatwave.html"><figure><img src="assets/covers/heatwave.svg?v=transparent2" width="720" height="450" alt="" loading="lazy"></figure><div><span class="eyebrow">论文 · 2026</span><h3>热浪风险研究</h3><p>参与研究设计、分析、数据整理、图稿和论文写作。</p></div><span data-icon="arrow-right" aria-hidden="true"></span></a></div></section>
  <section class="home-notes wrap"><div><span class="eyebrow">02 · 工作之外</span><h2>一些个人文字</h2></div><p>关于形式、功能，以及设计为什么值得。</p><a href="notes.html" class="text-link">进入文字<span data-icon="arrow-right" aria-hidden="true"></span></a><figure class="notes-material" aria-hidden="true"><img src="assets/folio-scene-cutout.webp" alt="" width="1536" height="1024" loading="lazy"></figure></section></main><footer class="site-footer"><div><span>© 2026 Tin-Yeh Huang</span><button class="contact-trigger" popovertarget="contact-panel">联系<span data-icon="plus" aria-hidden="true"></span></button><a class="footer-email" href="mailto:tin-yeh.huang@connect.polyu.hk">邮箱<span data-icon="arrow-up-right" aria-hidden="true"></span></a></div></footer><aside class="music-dock" aria-label="音乐播放器"><button class="music-launcher" popovertarget="music-panel" aria-label="打开音乐播放器"><span class="music-bars" aria-hidden="true"><i></i><i></i><i></i><i></i></span><span data-music-label>听点音乐</span><span data-icon="plus" aria-hidden="true"></span></button><section id="music-panel" class="music-panel" popover aria-labelledby="music-title"><header><span class="eyebrow">音乐角落</span><button popovertarget="music-panel" popovertargetaction="hide" aria-label="收起播放器"><span data-icon="minus" aria-hidden="true"></span></button></header><div class="music-track"><span class="record-disc" aria-hidden="true"></span><div><h2 id="music-title">尘大师</h2><p>陈奕迅</p><a href="https://music.apple.com/hk/album/塵大師/1675204502?i=1675204703" target="_blank" rel="noopener noreferrer">Apple Music<span data-icon="arrow-up-right" aria-hidden="true"></span></a></div></div><div class="music-transport"><button data-music-toggle aria-pressed="false" aria-label="播放音乐试听"><span data-icon="play" aria-hidden="true"></span></button><div class="music-timeline"><input type="range" data-music-seek min="0" max="30" value="0" step="0.1" disabled aria-label="播放进度"><div><time data-music-elapsed>0:00</time><span>官方试听 · <time data-music-duration>0:30</time></span></div></div></div><label class="music-volume"><span>音量</span><input type="range" data-music-volume min="0" max="1" step="0.05" value="0.55" aria-label="音量"></label><p data-audio-status role="status"></p></section></aside><audio id="music" preload="none" src="https://audio-ssl.itunes.apple.com/itunes-assets/AudioPreview126/v4/cf/66/67/cf666757-8fc8-e1c9-ed65-aa087e854952/mzaf_18188607515704561791.plus.aac.p.m4a"></audio></body></html>
